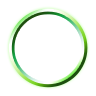
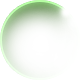
Added highlight rotation animations.

diff --git a/js/main.js b/js/main.js
@@ -308,7 +308,7 @@ function draw(time) {
 	drawMural(time)
 	drawBoard(scene);
 	setRings();
-	drawPieces();
+	drawPieces(time/500);
 	drawHelmets();
 
 	if (gameMan.tutorialStep >= 0 || gameMan.winner >= 0) {
@@ -348,7 +348,7 @@ function drawBoard(scene) {
 }
 
 function drawMural(time) {
-	drawMuralBackground();
+	context.drawImage(images["mural"], 628, 622, 760, 194);
 	tick.frame++;
 	tick.time = time;
 	tick.elapsed_time = Math.min(tick.time - tick.time_last, 50);
@@ -361,13 +361,6 @@ function drawMural(time) {
 	murals[2].draw();
 	murals[3].draw();
 	murals[1].draw();
-}
-
-function drawMuralBackground() {
-	context.save();
-	context.translate(628, 622);
-	context.drawImage(images["mural"], 0, 0, 760, 194);
-	context.restore();
 }
 
 function setRings() {
@@ -392,7 +385,7 @@ function setRings() {
 	}
 }
 
-function drawPieces() {
+function drawPieces(rotationSpeed) {
 	for (var row = 0; row < 15; ++row) {
 		for (var col = 0; col < 21; ++col) {
 			var cell = grid[row][col];
@@ -408,14 +401,18 @@ function drawPieces() {
 				}
 
 				if (cell.prompt == 0) {
+					context.rotate(rotationSpeed);
 					context.drawImage(images["green"], -displayMan.cellSize/2, -displayMan.cellSize/2, displayMan.cellSize, displayMan.cellSize);	// ring
+					context.rotate(-rotationSpeed);
 				}
 				else if (cell.prompt == 1) {
 					context.drawImage(images["greenShadow"], -displayMan.pieceSize/2, -displayMan.pieceSize/2, displayMan.pieceSize, displayMan.pieceSize);	// ring
 				}
 
 				if (cell.ring == 0) {
+					context.rotate(rotationSpeed);
 					context.drawImage(images["gold"], -displayMan.cellSize/2, -displayMan.cellSize/2, displayMan.cellSize, displayMan.cellSize);	// ring
+					context.rotate(-rotationSpeed);
 				}
 				else if (cell.ring == 1) {
 					var rotation = cell.kind == 2 ? cell.city : inputMan.rot;
